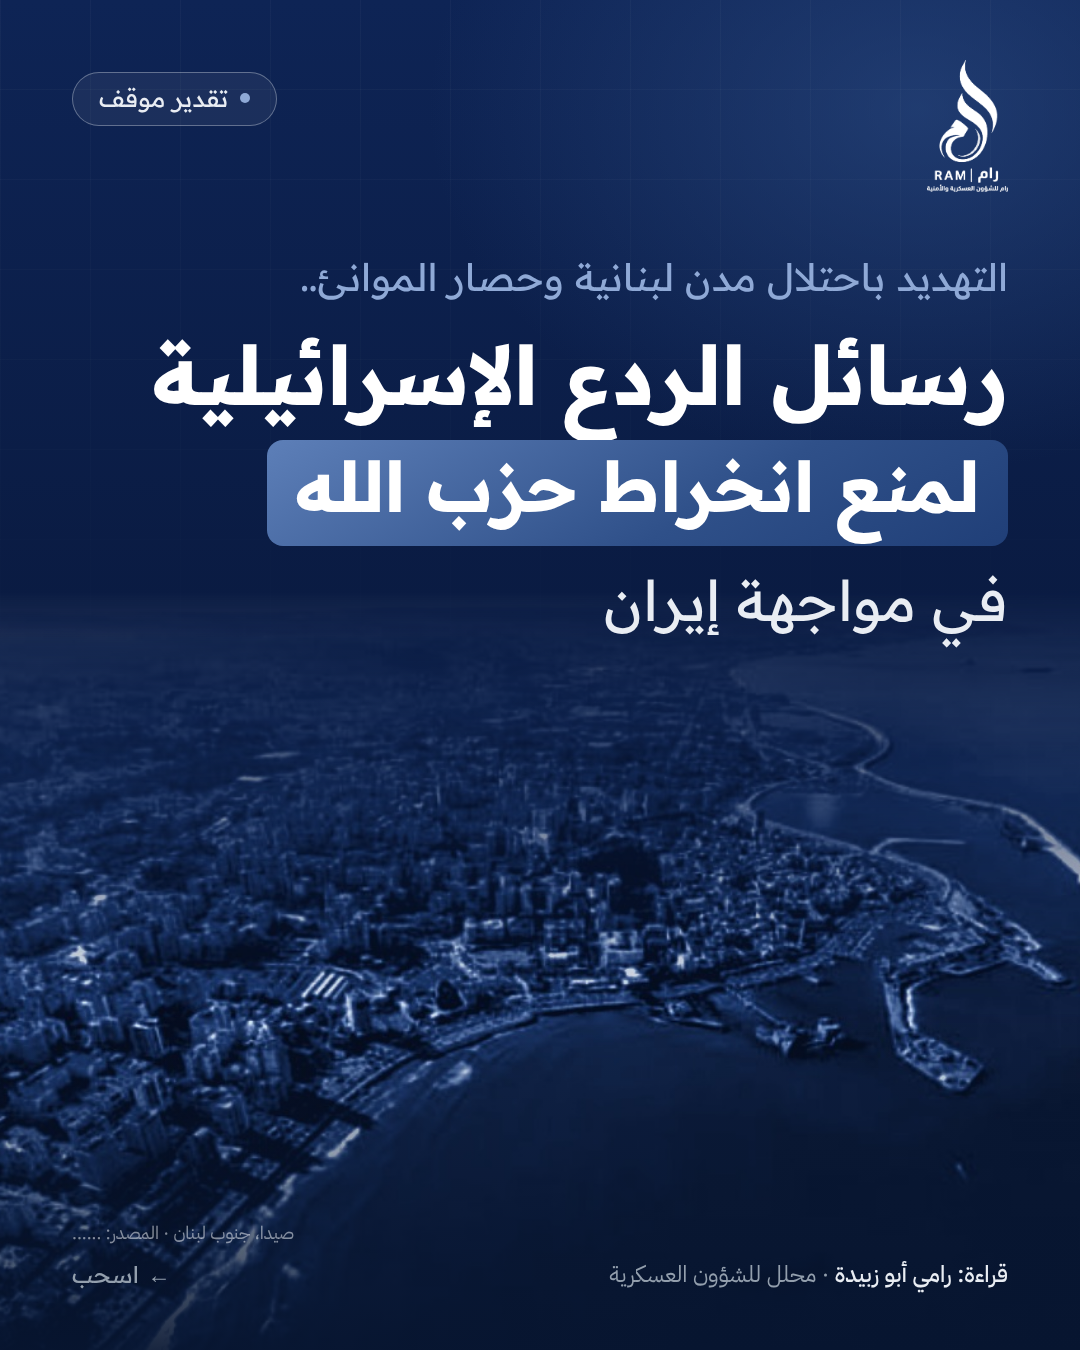
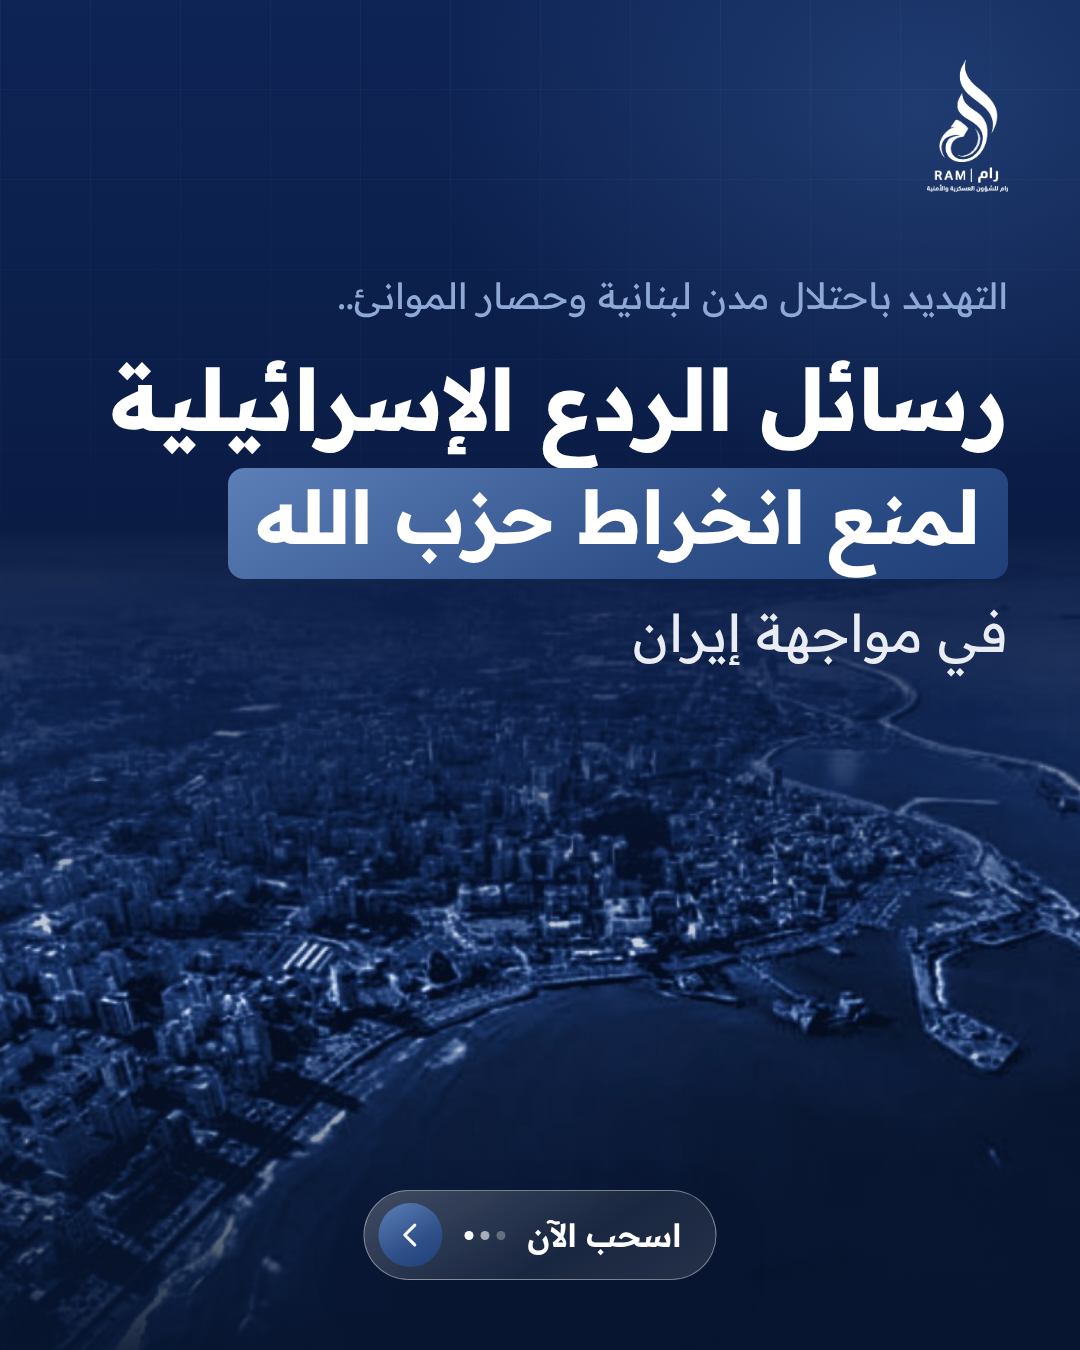
Simplify cover, add swipe CTA, drop photo credit lines
Claude-Session: https://claude.ai/code/session_01EW5L56NuYcnMJVgEDoh2db

diff --git a/carousel/carousel.html b/carousel/carousel.html
@@ -66,6 +66,16 @@ body{background:#333;font-family:var(--b);color:#fff;display:flex;flex-direction
 .li{display:flex;gap:28px;align-items:flex-start}
 .li .dia{margin-top:20px}
 .num{font-family:var(--h);font-weight:700;font-size:30px;color:var(--sky-l);direction:ltr}
+
+.swipe{position:absolute;left:50%;transform:translateX(-50%);bottom:70px;z-index:3;display:flex;align-items:center;gap:22px;
+  padding:12px 34px 12px 14px;border-radius:999px;font-family:var(--h);font-weight:600;font-size:32px;color:#fff;
+  background:linear-gradient(150deg,rgba(255,255,255,.22),rgba(255,255,255,.07) 60%,rgba(255,255,255,.12));
+  border:1.5px solid rgba(255,255,255,.4);backdrop-filter:blur(26px);-webkit-backdrop-filter:blur(26px);box-shadow:0 22px 44px rgba(7,21,48,.5)}
+.swipe .arr{order:3;width:64px;height:64px;border-radius:50%;display:flex;align-items:center;justify-content:center;background:linear-gradient(150deg,#5D7FB8,#2F5089 60%,#203f78)}
+.swipe .arr svg{width:34px;height:34px}
+.swipe .dots{order:2;display:flex;gap:7px;direction:ltr}
+.swipe .dots i{width:9px;height:9px;border-radius:50%;background:#fff}
+.swipe .dots i:nth-child(2){opacity:.6}.swipe .dots i:nth-child(3){opacity:.3}
 </style>
 </head>
 <body>
@@ -82,21 +92,20 @@ body{background:#333;font-family:var(--b);color:#fff;display:flex;flex-direction
 
 <!-- ============ 1. الغلاف ============ -->
 <section class="slide" id="s1">
-  <div class="photo" style="height:760px;background-image:url(photos/sidon.jpg);background-position:center 40%"></div>
+  <div class="photo" style="height:820px;background-image:url(photos/sidon.jpg);background-position:center 45%"></div>
   <img class="logo" src="assets/logo-white-full.png" alt="رام">
-  <div class="tag"><i></i>تقدير موقف</div>
 
-  <div class="head" style="top:250px">
-    <div class="kicker">التهديد باحتلال مدن لبنانية وحصار الموانئ..</div>
-    <div class="title" style="margin-top:18px">رسائل الردع الإسرائيلية</div>
-    <div class="title hl" style="font-size:70px;margin-top:12px">لمنع انخراط حزب الله</div>
-    <div class="sub" style="margin-top:18px">في مواجهة إيران</div>
+  <div class="head" style="top:270px">
+    <div class="kicker" style="font-size:36px">التهديد باحتلال مدن لبنانية وحصار الموانئ..</div>
+    <div class="title" style="margin-top:22px;font-size:86px">رسائل الردع الإسرائيلية</div>
+    <div class="title hl" style="font-size:74px;margin-top:14px">لمنع انخراط حزب الله</div>
+    <div class="sub" style="margin-top:20px;font-size:52px">في مواجهة إيران</div>
   </div>
 
-  <div class="credit">صيدا، جنوب لبنان · المصدر: ......</div>
-  <div class="foot">
-    <div><b>قراءة: رامي أبو زبيدة</b> · محلل للشؤون العسكرية</div>
-    <div class="pg">اسحب ←</div>
+  <div class="swipe">
+    <span class="arr"><svg viewBox="0 0 24 24"><path d="M15 5l-7 7 7 7" fill="none" stroke="#fff" stroke-width="2.2" stroke-linecap="round" stroke-linejoin="round"/></svg></span>
+    <span>اسحب الآن</span>
+    <span class="dots"><i></i><i></i><i></i></span>
   </div>
 </section>
 
@@ -120,8 +129,6 @@ body{background:#333;font-family:var(--b);color:#fff;display:flex;flex-direction
     <div class="sep"></div>
     <div><div class="dia"></div><div class="lab" style="margin-top:14px">حصار بحري</div><div class="p" style="font-size:32px">ميناءا بيروت وطرابلس</div></div>
   </div>
-
-  <div class="credit">ميناء بيروت · المصدر: ......</div>
   <div class="foot">
     <div>المصدر: <b>صحيفة معاريف العبرية</b></div>
     <div class="pg"><em>02</em> / 06</div>
@@ -144,8 +151,6 @@ body{background:#333;font-family:var(--b);color:#fff;display:flex;flex-direction
     <div class="li"><div class="dia"></div><div class="p"><b>جاهزية عملياتية</b> واستعداد مسبق لسيناريوهات المواجهة</div></div>
     <div class="li"><div class="dia"></div><div class="p"><b>أداة ردع</b> للتأثير في حسابات حزب الله، مع تصاعد الحديث عن مواجهة محتملة مع إيران</div></div>
   </div>
-
-  <div class="credit">المصدر: ......</div>
   <div class="foot">
     <div>تحليل: <b>رامي أبو زبيدة</b></div>
     <div class="pg"><em>03</em> / 06</div>
@@ -173,8 +178,6 @@ body{background:#333;font-family:var(--b);color:#fff;display:flex;flex-direction
     <div style="height:1.5px;background:linear-gradient(90deg,transparent,rgba(147,159,173,.5),transparent);margin-bottom:34px"></div>
     <div class="p">معادلة تضع القدرات العسكرية الإسرائيلية أمام <b style="color:var(--sky-l)">اختبار معقد</b></div>
   </div>
-
-  <div class="credit">اعتراضات فوق تل أبيب · المصدر: ......</div>
   <div class="foot">
     <div>تحليل: <b>رامي أبو زبيدة</b></div>
     <div class="pg"><em>04</em> / 06</div>
@@ -247,8 +250,6 @@ body{background:#333;font-family:var(--b);color:#fff;display:flex;flex-direction
     <div class="li"><div class="num">02</div><div><div class="meta">الوسيلة</div><div class="p">التلويح بنقل الحرب إلى <b>عمق الأراضي اللبنانية</b></div></div></div>
     <div class="li"><div class="num">03</div><div><div class="meta">الخيار القائم</div><div class="p">إبقاء <b>الحرب الواسعة</b> حاضرة تحسباً لفشل الردع</div></div></div>
   </div>
-
-  <div class="credit">الحدود اللبنانية · المصدر: ......</div>
   <div class="foot">
     <div>تحليل: <b>رامي أبو زبيدة</b></div>
     <div class="pg"><em>06</em> / 06</div>
